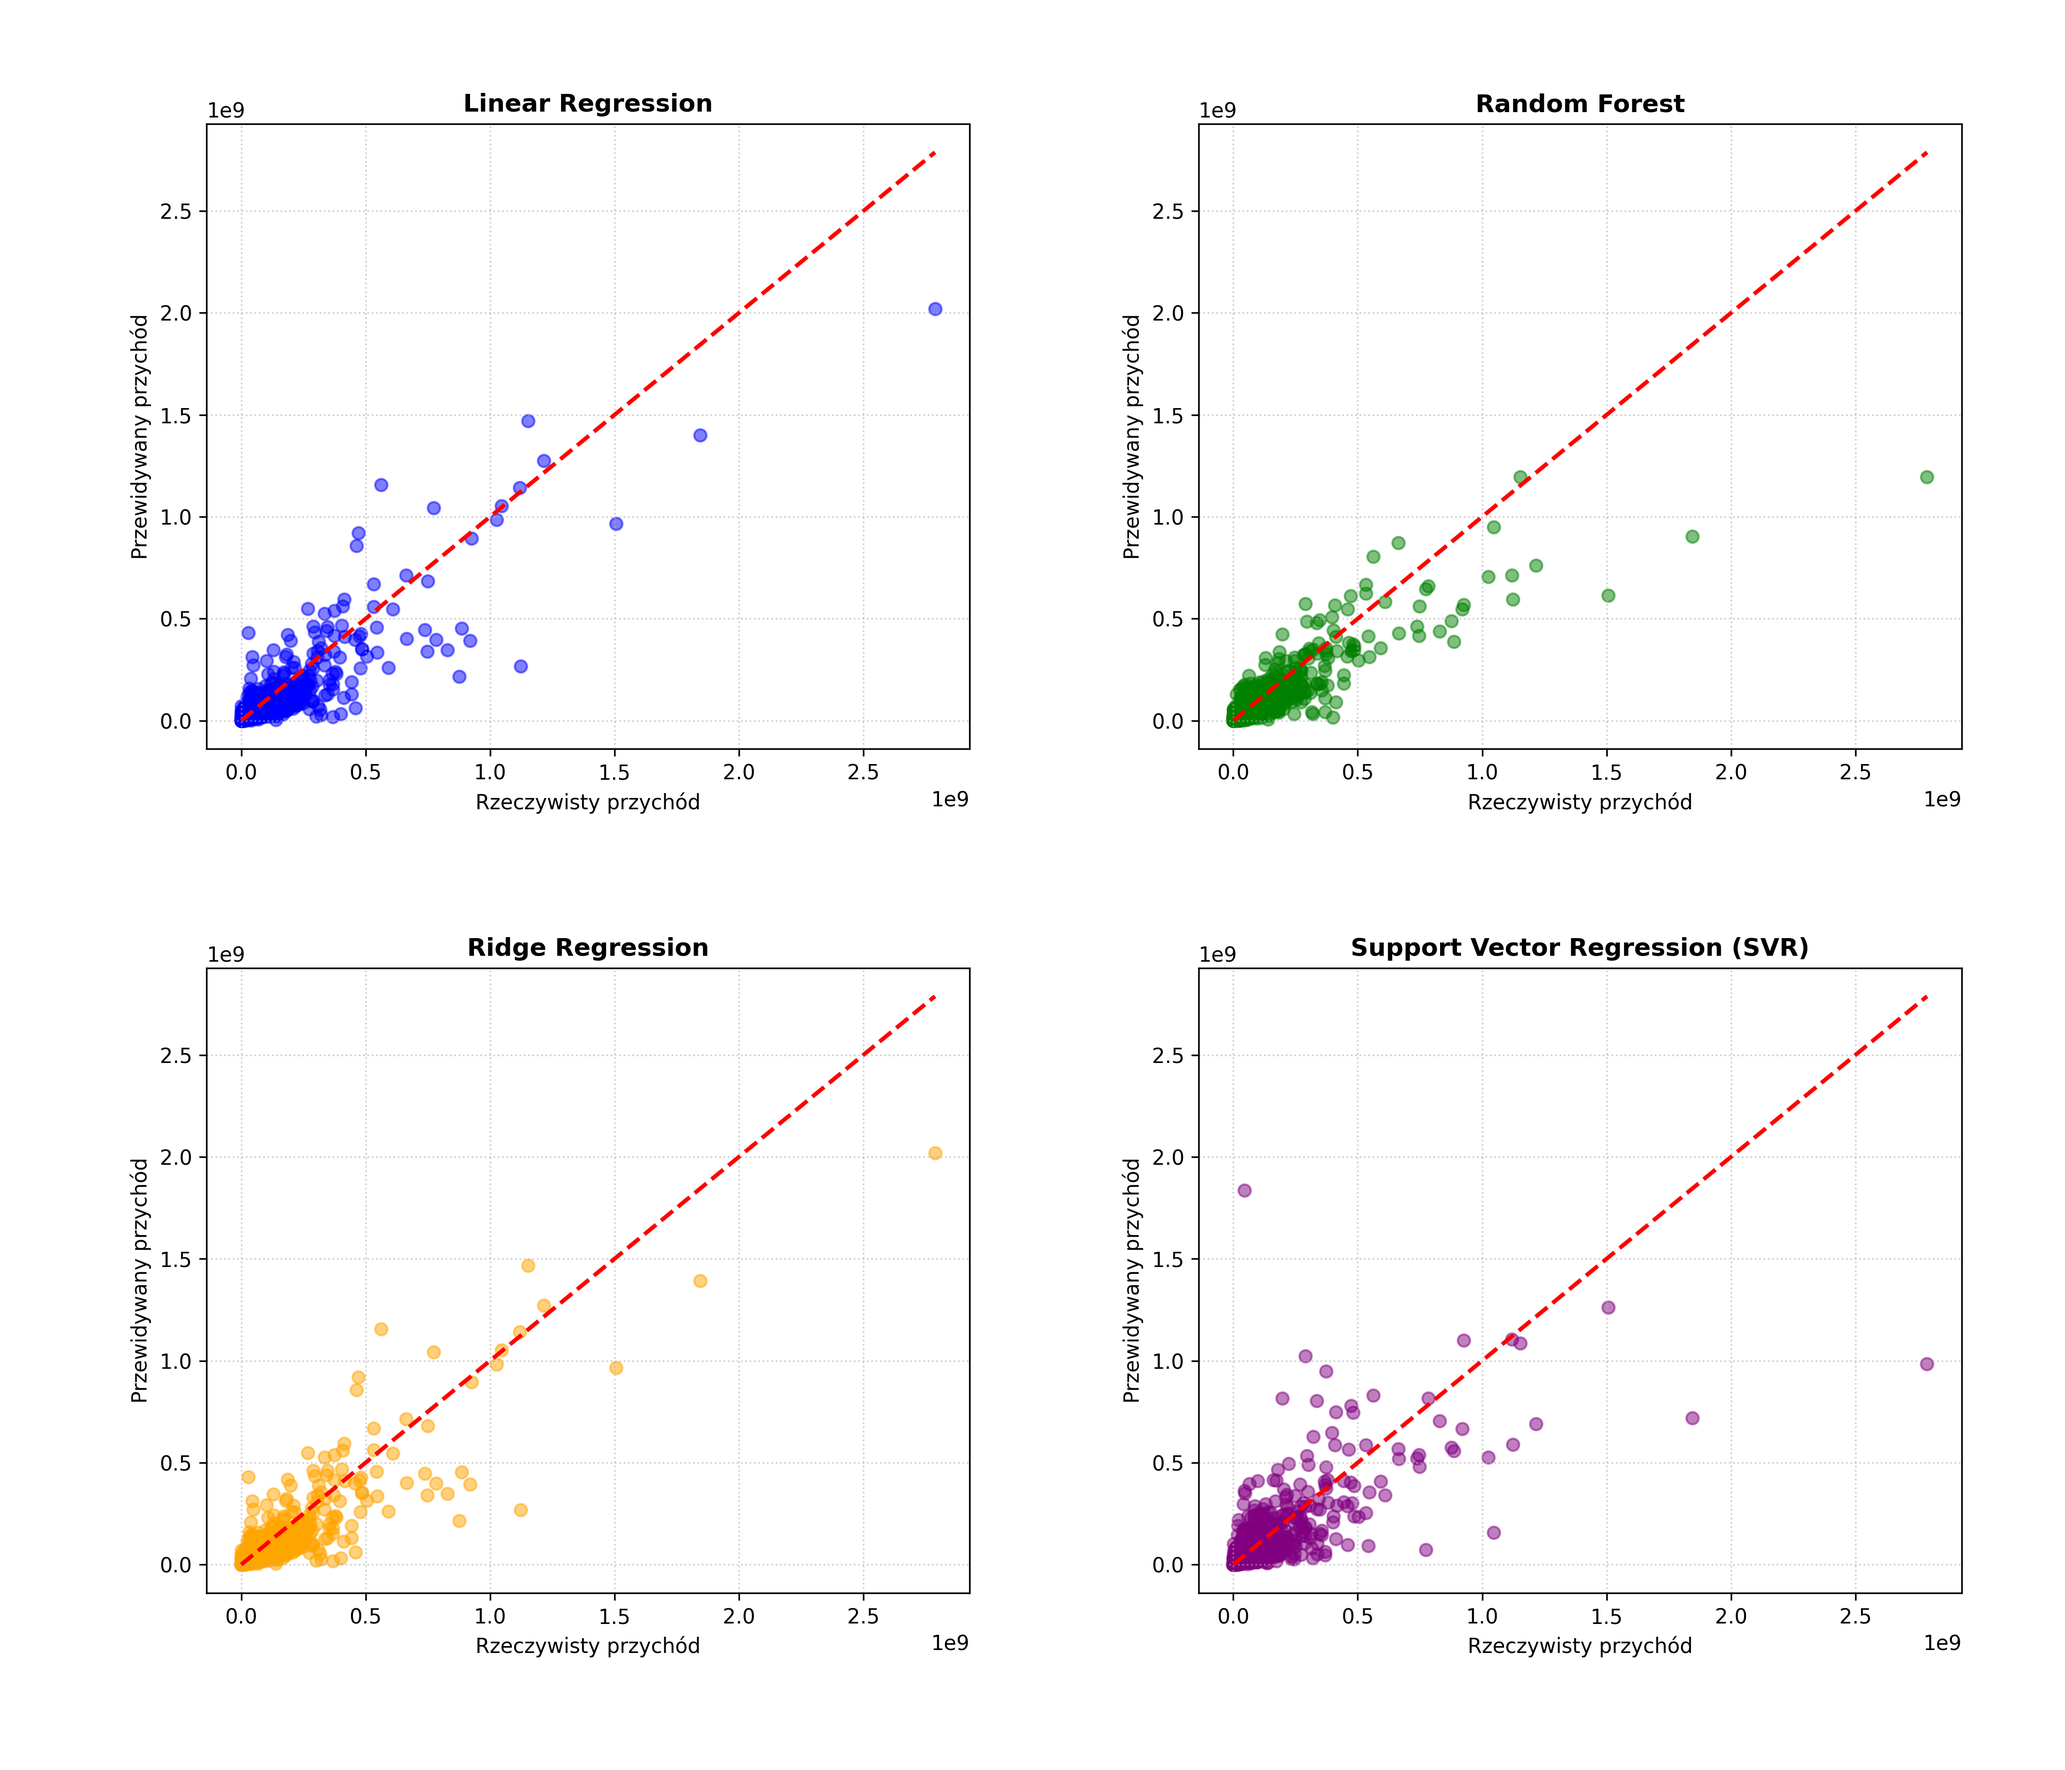
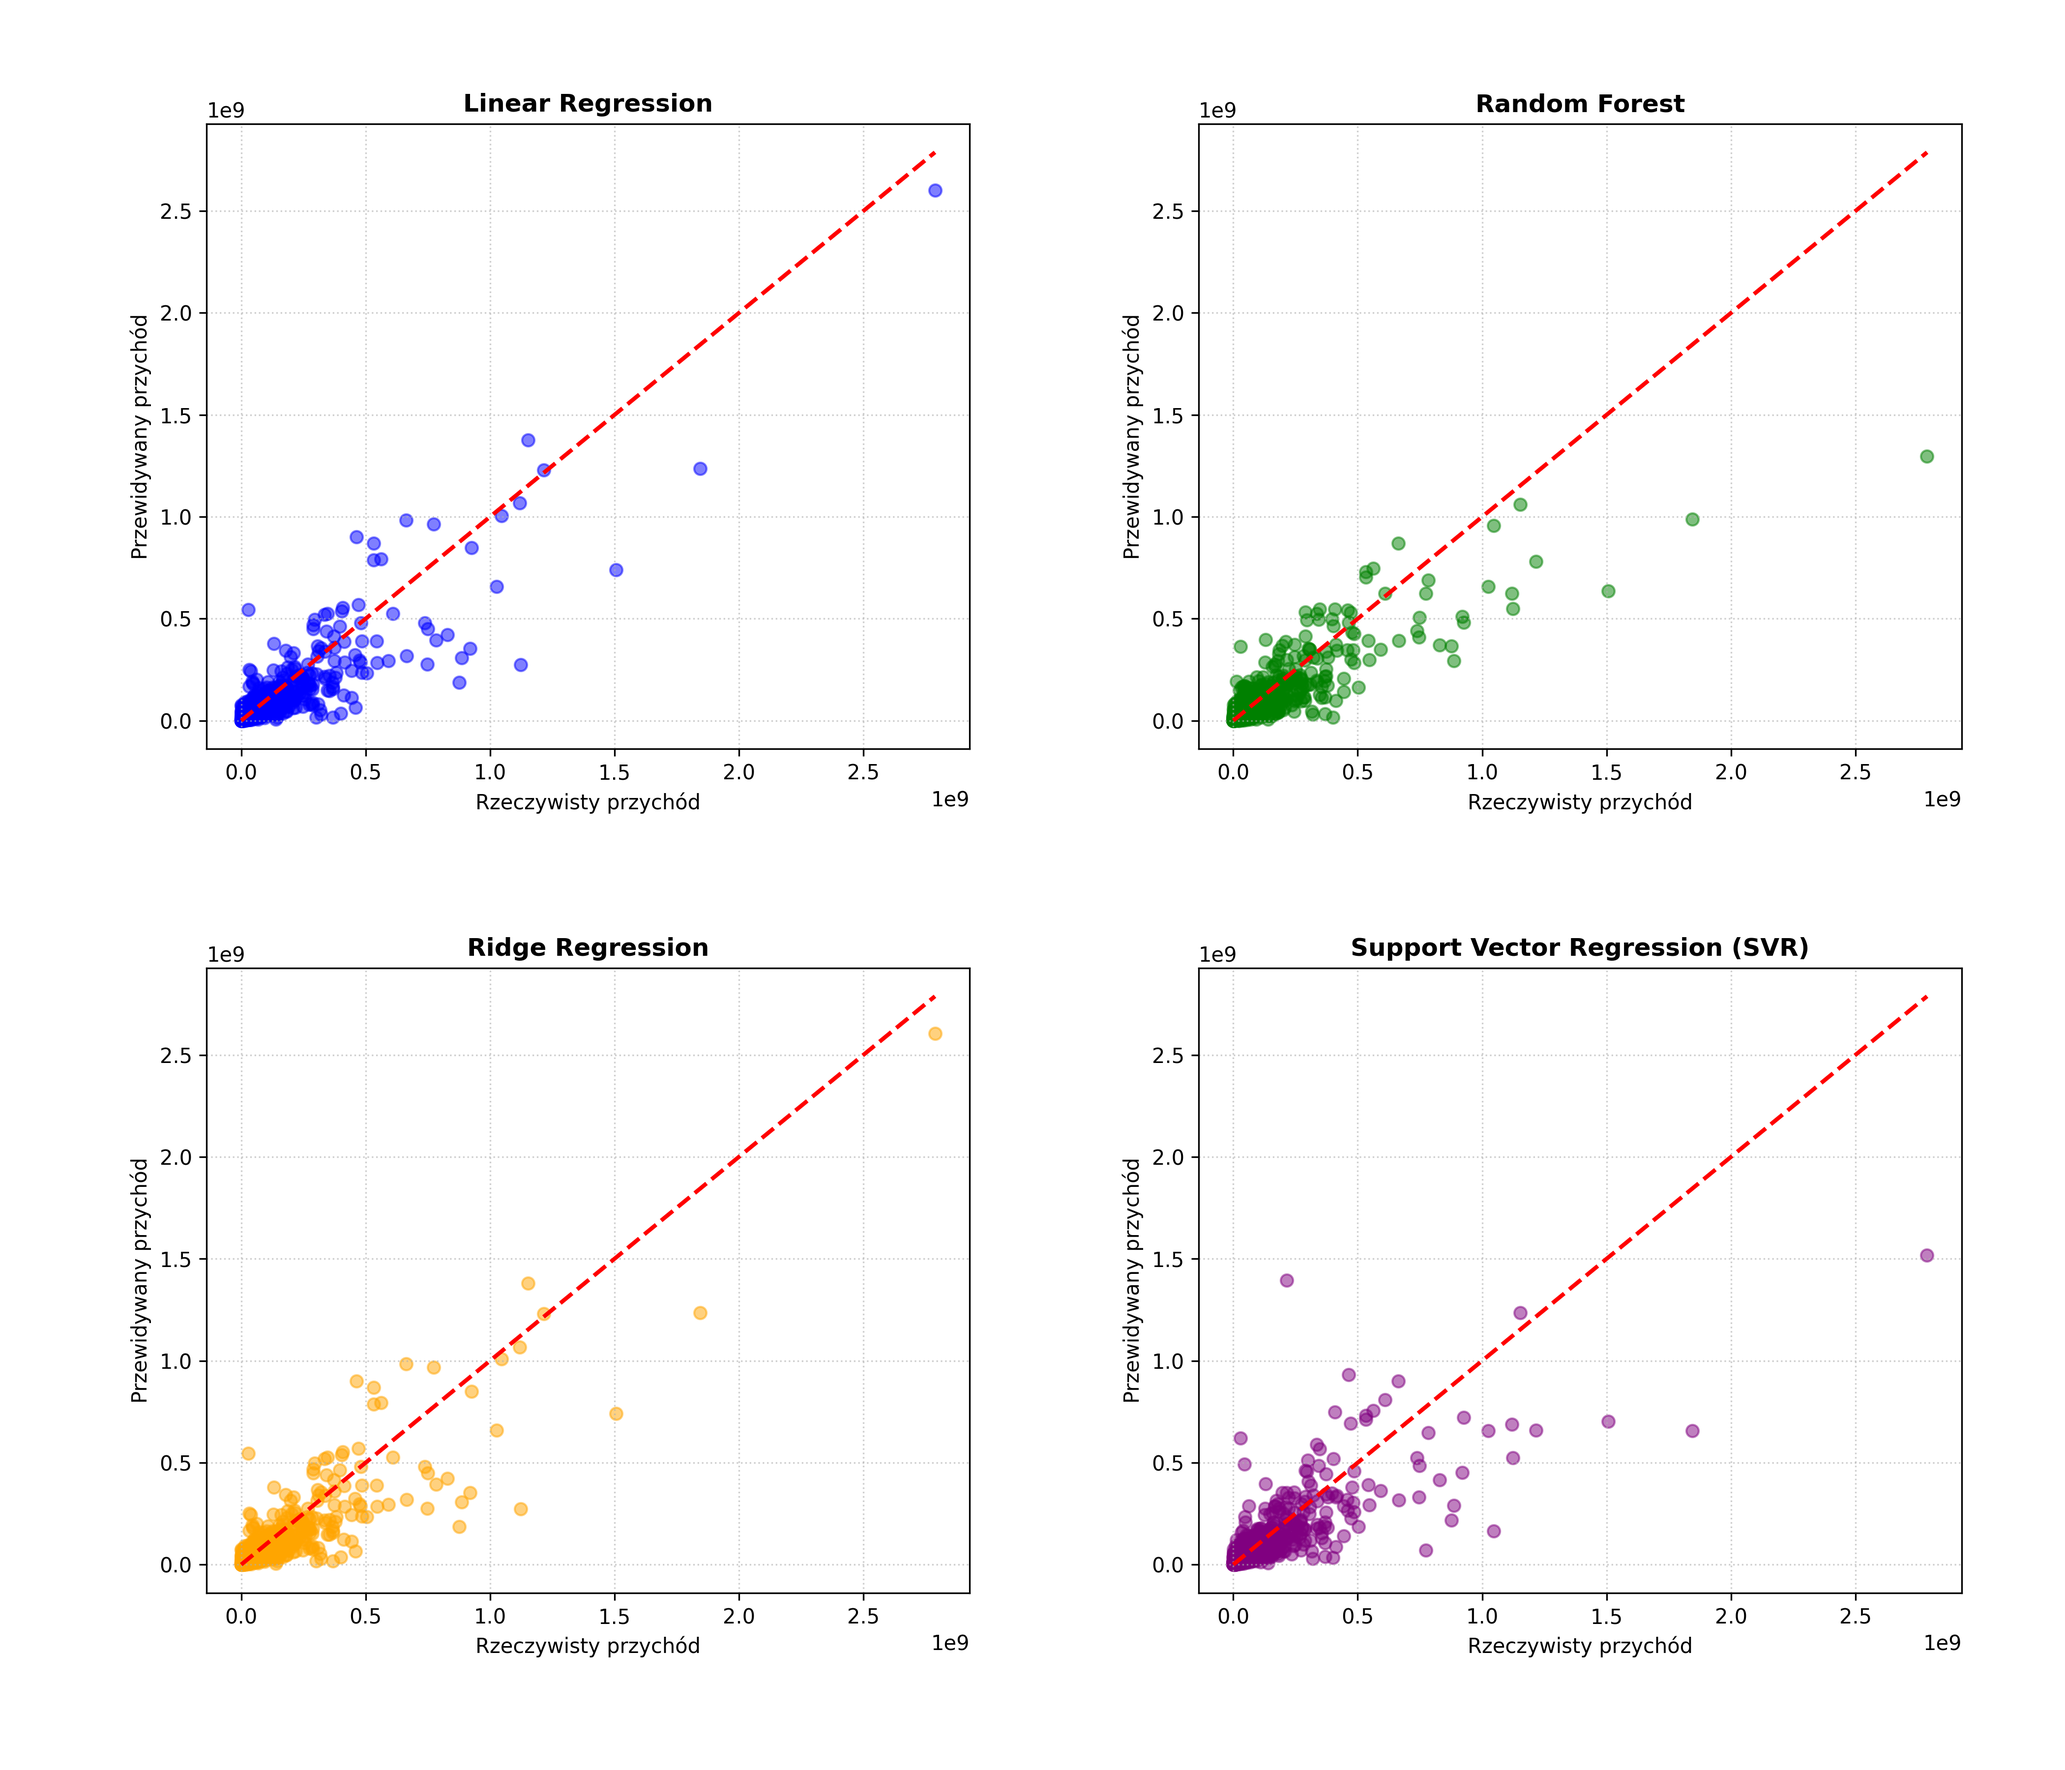
frontend

diff --git a/index.html b/index.html
@@ -3,68 +3,179 @@
 <head>
     <meta charset="UTF-8">
     <title>Predykcja przychodu filmu</title>
-    <link rel="stylesheet" href="https://cdn.jsdelivr.net/npm/bootstrap@4.5.2/dist/css/bootstrap.min.css" />
-    
-    
+    <link rel="stylesheet" href="https://jsdelivr.net" />
+    <link rel="preconnect" href="https://googleapis.com">
+    <link rel="preconnect" href="https://gstatic.com" crossorigin>
+    <link href="https://googleapis.com/css2?family=Playfair+Display:ital,wght@0,400..900;1,400..900&display=swap" rel="stylesheet">
+        
     <style>
         #result {
-            margin-top: 20px;
+            margin-top: 15px;
             font-weight: bold;
+            font-size: 1.25rem;
+            text-align: center;
+        }
+        body {
+            background-image: url("https://wallpapers.com/images/featured/film-background-fwuwqptvgv1k0jco.jpg");
+            background-size: cover;
+            background-position: center;
+            background-attachment: fixed;
+            font-family: "Playfair Display", serif;
+            font-weight: bold;
+        }
+        .card {
+            background: rgba(15, 39, 62, 0.85) !important;
+            border-radius: 15px;
+            box-shadow: 0 8px 32px rgba(0,0,0,0.3);
         }
     </style>
 </head>
 <body>
 
-<div class="container">
-    <h2>Predykcja przychodu filmu</h2>
-    <p>Sprawdź jaki będzie przewidywany przychód filmu.</p>
-    <div class="mb-3">
-        <label for="budget" class="form-label">Budżet</label>
-        <input type="email" class="form-control" id="budget" placeholder="200 000 000">
+<div class="container mt-4">
+    <div class="row justify-content-center">
+        <div class="col-md-8 col-lg-6">
+            <div class="card p-5 mt-2 text-light">
+                <h2 class="text-center mb-1">Predykcja przychodu filmu</h2>
+                <p class="text-center text-muted mb-4" style="color: #cbd5e1 !important;">Sprawdź jaki będzie przewidywany przychód filmu.</p>
+                
+                <form id="predictionForm" onsubmit="event.preventDefault(); predict();">
+                    <div class="mb-3">
+                        <label for="budget" class="form-label">Budżet ($)</label>
+                        <!-- type="text" pozwala na wstrzykiwanie spacji jako separatorów wizualnych -->
+                        <input type="text" class="form-control" id="budget" placeholder="np. 200 000 000" required>
+                    </div>
+                    <div class="mb-3">
+                        <label for="popularity" class="form-label">Popularność</label>
+                        <input type="text" class="form-control" id="popularity" placeholder="np. 123.456789" required>
+                    </div>
+                    <div class="mb-3">
+                        <label for="vote_average" class="form-label">Ocena (0 - 10)</label>
+                        <input type="number" min="0" max="10" step="0.01" class="form-control" id="vote_average" placeholder="np. 9.81" required>
+                    </div>
+                    <div class="mb-3">
+                        <label for="vote_count" class="form-label">Liczba głosów</label>
+                        <input type="text" class="form-control" id="vote_count" placeholder="np. 1 600" required>
+                    </div>
+                    <div class="text-center mt-4">
+                        <button type="submit" class="btn btn-info btn-lg px-5">Oblicz</button>
+                    </div>
+                </form>
+                
+                <div id="result" class="text-info"></div>
+            </div>
+        </div>
     </div>
-    <div class="mb-3">
-        <label for="popularity" class="form-label">Popularność</label>
-        <input type="email" class="form-control" id="popularity" placeholder="123.456789">
-    </div>
-    <div class="mb-3">
-        <label for="vote_average" class="form-label">Ocena</label>
-        <input type="email" class="form-control" id="vote_average" placeholder="od 0 do 10">
-    </div>
-    <div class="mb-3">
-        <label for="vote_count" class="form-label">Liczba głosów</label>
-        <input type="email" class="form-control" id="vote_count" placeholder="1600">
-    </div>
-    <button class="btn btn-primary mt-2" onclick="predict()">Oblicz</button>
-
-    <div id="result"></div>
 </div>
 
 <script>
-async function predict() {
-    const budget = Number(document.getElementById("budget").value);
-    const popularity = Number(document.getElementById("popularity").value);
-    const vote_average = Number(document.getElementById("vote_average").value);
-    const vote_count = Number(document.getElementById("vote_count").value);
+// Funkcja pomocnicza formatująca liczbę całkowitą ze spacjami
+function formatIntegerWithSpaces(value) {
+    // Usuń wszystko, co nie jest cyfrą
+    let clean = value.replace(/\D/g, "");
+    if (!clean) return "";
+    
+    // Zamień ciąg cyfr na format z separatorami spacji
+    return new Intl.NumberFormat("pl-PL").format(parseInt(clean, 10));
+}
 
-    const response = await fetch("https://biometryczne-systemy-rozpoznawania-ssks.onrender.com/predict", {
-        method: "POST",
-        headers: {
-            "Content-Type": "application/json"
-        },
-        body: JSON.stringify({
-            budget: budget,
-            popularity: popularity,
-            vote_average: vote_average,
-            vote_count: vote_count,
-            budget_log: Math.log1p(budget),
-            popularity_log: Math.log1p(popularity)
-        })
+function setupValidation() {
+    const budget = document.getElementById("budget");
+    const popularity = document.getElementById("popularity");
+    const voteAverage = document.getElementById("vote_average");
+    const voteCount = document.getElementById("vote_count");
+
+    // 1. Logika dla BUDŻETU oraz LICZBY GŁOSÓW (tylko całkowite, rozdzielone spacjami)
+    [budget, voteCount].forEach(input => {
+        input.addEventListener("input", (e) => {
+            let cursorPosition = e.target.selectionStart;
+            let oldLength = e.target.value.length;
+            
+            // Formatuj wartość wejściową
+            let formatted = formatIntegerWithSpaces(e.target.value);
+            e.target.value = formatted;
+            
+            // Korekta pozycji kursora (żeby nie skakał na koniec pola przy wpisywaniu spacji)
+            let newLength = formatted.length;
+            cursorPosition = cursorPosition + (newLength - oldLength);
+            e.target.setSelectionRange(cursorPosition, cursorPosition);
+        });
     });
 
-    const data = await response.json();
+    // 2. Walidacja dla Oceny (blokada minusów/e, max 10)
+    voteAverage.addEventListener("keydown", e => {
+        if (e.key === "-" || e.key === "e" || e.key === "E" || e.key === "+") {
+            e.preventDefault();
+        }
+    });
+    voteAverage.addEventListener("input", () => {
+        if (voteAverage.value < 0) voteAverage.value = 0;
+        if (voteAverage.value > 10) voteAverage.value = 10;
+    });
 
-    document.getElementById("result").innerText =
-        "Przewidywany przychód: " + Math.round(data.prediction) + " $";
+    // 3. Logika dla Popularności (zamiana przecinka na kropkę, brak spacji)
+    popularity.addEventListener("input", (e) => {
+        let value = e.target.value;
+        value = value.replace(",", ".");
+        value = value.replace(/[^0-9.]/g, "");
+        
+        const parts = value.split(".");
+        if (parts.length > 2) {
+            value = parts[0] + "." + parts.slice(1).join("");
+        }
+        e.target.value = value;
+    });
+}
+
+document.addEventListener("DOMContentLoaded", setupValidation);
+
+async function predict() {
+    const resultDiv = document.getElementById("result");
+    resultDiv.innerText = "Trwa obliczanie...";
+
+    // Pobranie wartości tekstowych i oczyszczenie ich ze spacji przed konwersją na czyste liczby
+    const rawBudget = document.getElementById("budget").value.replace(/\s+/g, "");
+    const rawVoteCount = document.getElementById("vote_count").value.replace(/\s+/g, "");
+
+    // Konwersja na liczby (Budżet i Głosy wymuszone jako Int, reszta Float)
+    const budget = parseInt(rawBudget, 10) || 0;
+    const popularity = parseFloat(document.getElementById("popularity").value) || 0;
+    const vote_average = parseFloat(document.getElementById("vote_average").value) || 0;
+    const vote_count = parseInt(rawVoteCount, 10) || 0;
+
+    try {
+        const response = await fetch("https://biometryczne-systemy-rozpoznawania-ssks.onrender.com/predict", {
+            method: "POST",
+            headers: {
+                "Content-Type": "application/json"
+            },
+            body: JSON.stringify({
+                budget: budget,
+                popularity: popularity,
+                vote_average: vote_average,
+                vote_count: vote_count,
+                budget_log: Math.log1p(budget),
+                popularity_log: Math.log1p(popularity)
+            })
+        });
+
+        if (!response.ok) throw new Error("Błąd serwera");
+
+        const data = await response.json();
+        
+        const formattedPrediction = new Intl.NumberFormat('pl-PL', { 
+            style: 'currency', 
+            currency: 'USD',
+            maximumFractionDigits: 0 
+        }).format(data.prediction);
+
+        resultDiv.className = "text-success font-weight-bold";
+        resultDiv.innerText = "Przewidywany przychód: " + formattedPrediction;
+
+    } catch (error) {
+        resultDiv.className = "text-danger font-weight-bold";
+        resultDiv.innerText = "Wystąpił błąd podczas pobierania predykcji.";
+    }
 }
 </script>
 

diff --git a/6_Przewidywanie_przychodów_filmów_metodami_regresji/main.py b/6_Przewidywanie_przychodów_filmów_metodami_regresji/main.py
@@ -36,54 +36,27 @@ print("-----------------------------------")
 print(df.describe())
 
 # Wybór kolumn
-df = df[['budget', 'popularity', 'genres',
-        'vote_average', 'vote_count', 'revenue']]
-
+df = df[['budget', 'popularity', 'vote_average', 'vote_count', 'revenue']]
 
 # Czyszczenie danych
 df = df.dropna()
 
 # Usunięcie rekordów z zerowym budżetem lub przychodem
 df = df[(df['budget'] > 0) & (df['revenue'] > 0)]
-
-
-# Parsowanie gatunków filmów (kolumna 'genres' jest w formacie string, który reprezentuje listę słowników)
-def parse_genres(x):
-    genres = ast.literal_eval(x)
-    return [g['name'] for g in genres]
-
-df['genres'] = df['genres'].apply(parse_genres)
-
-
-# Kodowanie gatunków filmów
-mlb = MultiLabelBinarizer()
-genres_encoded = pd.DataFrame(
-    mlb.fit_transform(df['genres']),
-    columns=mlb.classes_
-)
-
 df = df.reset_index(drop=True)
-genres_encoded = genres_encoded.reset_index(drop=True)
-
-df = pd.concat([df, genres_encoded], axis=1)
-df = df.drop(columns=['genres'])
-
 
 # Logarytmowanie kolumn 'budget' i 'popularity' dla lepszej dystrybucji danych
 df['budget_log'] = np.log1p(df['budget'])
 df['popularity_log'] = np.log1p(df['popularity'])
 
-
 # Przygotowanie danych do modelowania
 X = df.drop(columns=['revenue'])
 y = np.log1p(df['revenue'])
-
 
 # Podział danych na zbiór treningowy i testowy
 X_train, X_test, y_train, y_test = train_test_split(
     X, y, test_size=0.2, random_state=42
 )
-
 
 # Skalowanie danych numerycznych
 scaler = StandardScaler()
